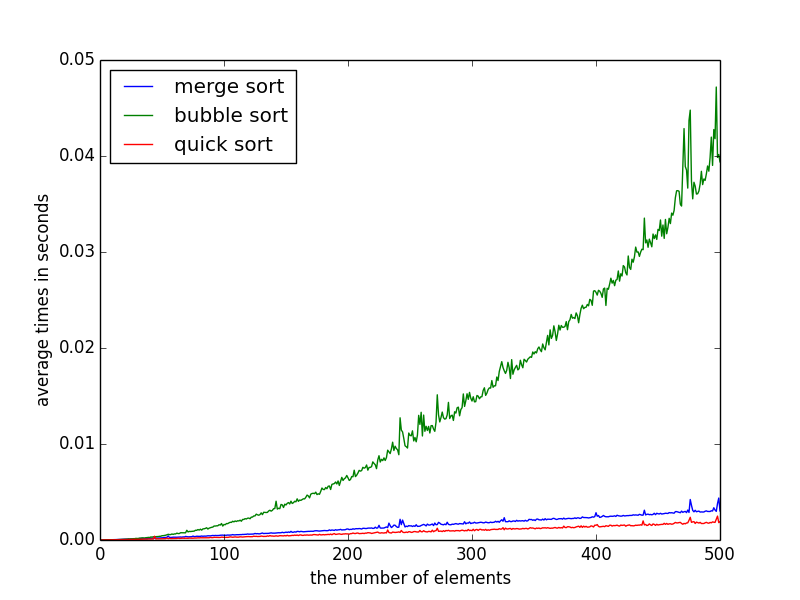
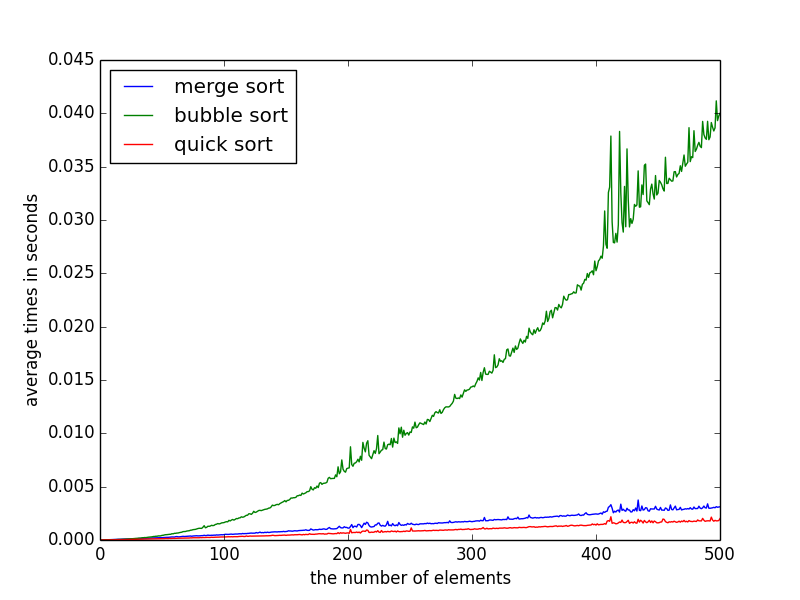
HW3
change

diff --git a/HW3/plot_sort.py b/HW3/plot_sort.py
@@ -8,21 +8,25 @@ import pylab as plt
 
 # simulation
 def sort_sim(n, iter): # n is the number of elements in the list, iter is the number of iteration.
-  sample = range(0,n)  
-  unsorted = random.sample(sample, n) # randomly arrange n numbers
-  T0 = timeit.Timer('mergesort(%s)'% unsorted, 'from __main__ import mergesort') # set timer for mergesort
-  T1 = timeit.Timer('bubblesort(%s)'% unsorted, 'from __main__ import bubblesort') # set timer for bubblesort
-  T2 = timeit.Timer('quicksort(%s)' % unsorted, 'from __main__ import quicksort') # set timer for quicksort
-  tm = T0.timeit(number=iter) # record consumed time for excuting mergesort 'iter' times
-  tb = T1.timeit(number=iter) # record consumed time for excuting bubblesort 'iter' times
-  tq = T2.timeit(number=iter) # record consumed time for excuting quicksort 'iter' times
-  return [tm, tb, tq]
+  tm = []
+  tb = []
+  tq = []
+  for i in range(iter): # do this loop 'iter' times
+    sample = range(0,n)  
+    unsorted = random.sample(sample, n) # randomly arrange n numbers
+    T0 = timeit.Timer('mergesort(%s)'% unsorted, 'from __main__ import mergesort') # set timer for mergesort
+    T1 = timeit.Timer('bubblesort(%s)'% unsorted, 'from __main__ import bubblesort') # set timer for bubblesort
+    T2 = timeit.Timer('quicksort(%s)' % unsorted, 'from __main__ import quicksort') # set timer for quicksort
+    tm.append(T0.timeit(number=1)) # record consumed time for excuting mergesort 
+    tb.append(T1.timeit(number=1)) # record consumed time for excuting bubblesort
+    tq.append(T2.timeit(number=1)) # record consumed time for excuting quicksort 
+  return [sum(tm), sum(tb), sum(tq)] # return total time for each sorting method
 
 # plot graphs for average time consumed for each sort method from size 1 to n by iterating 'iter' times
 def plot(n=500, iter=10):
-  time_merge = [] # list of average times consumed in merge sort from size 1 to n
-  time_bubble = [] # list of average times consumed in bubble sort from size 1 to n
-  time_quick = [] # list of average times consumed in quick sort from size 1 to n
+  time_merge = [] # list where average times consumed in merge sort from size 1 to n to be stored
+  time_bubble = [] # list where average times consumed in bubble sort from size 1 to n to be stored
+  time_quick = [] # list where average times consumed in quick sort from size 1 to n to be stored
   for i in range(1,n+1): # for size n data
     mtime = sort_sim(i, iter)[0] # total time for merge sort
     btime = sort_sim(i, iter)[1] # total time for bubble sort    
